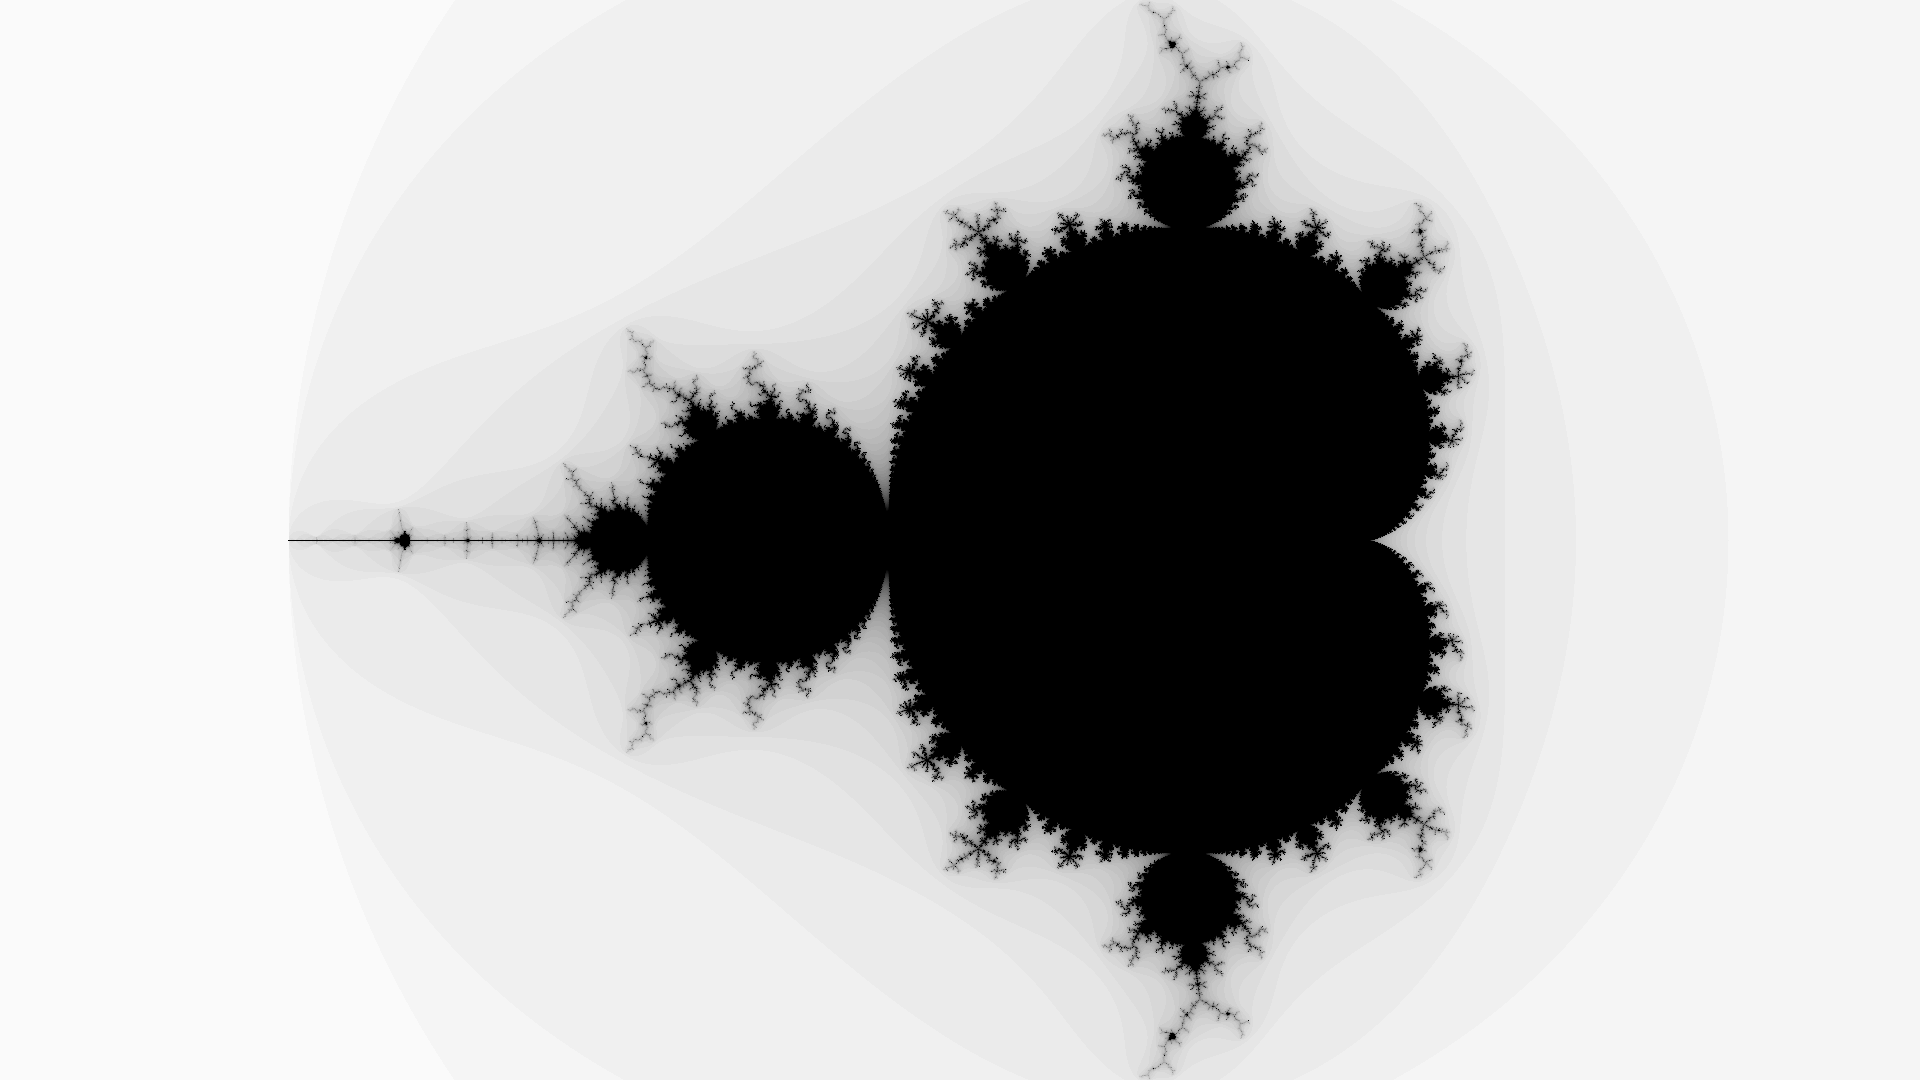
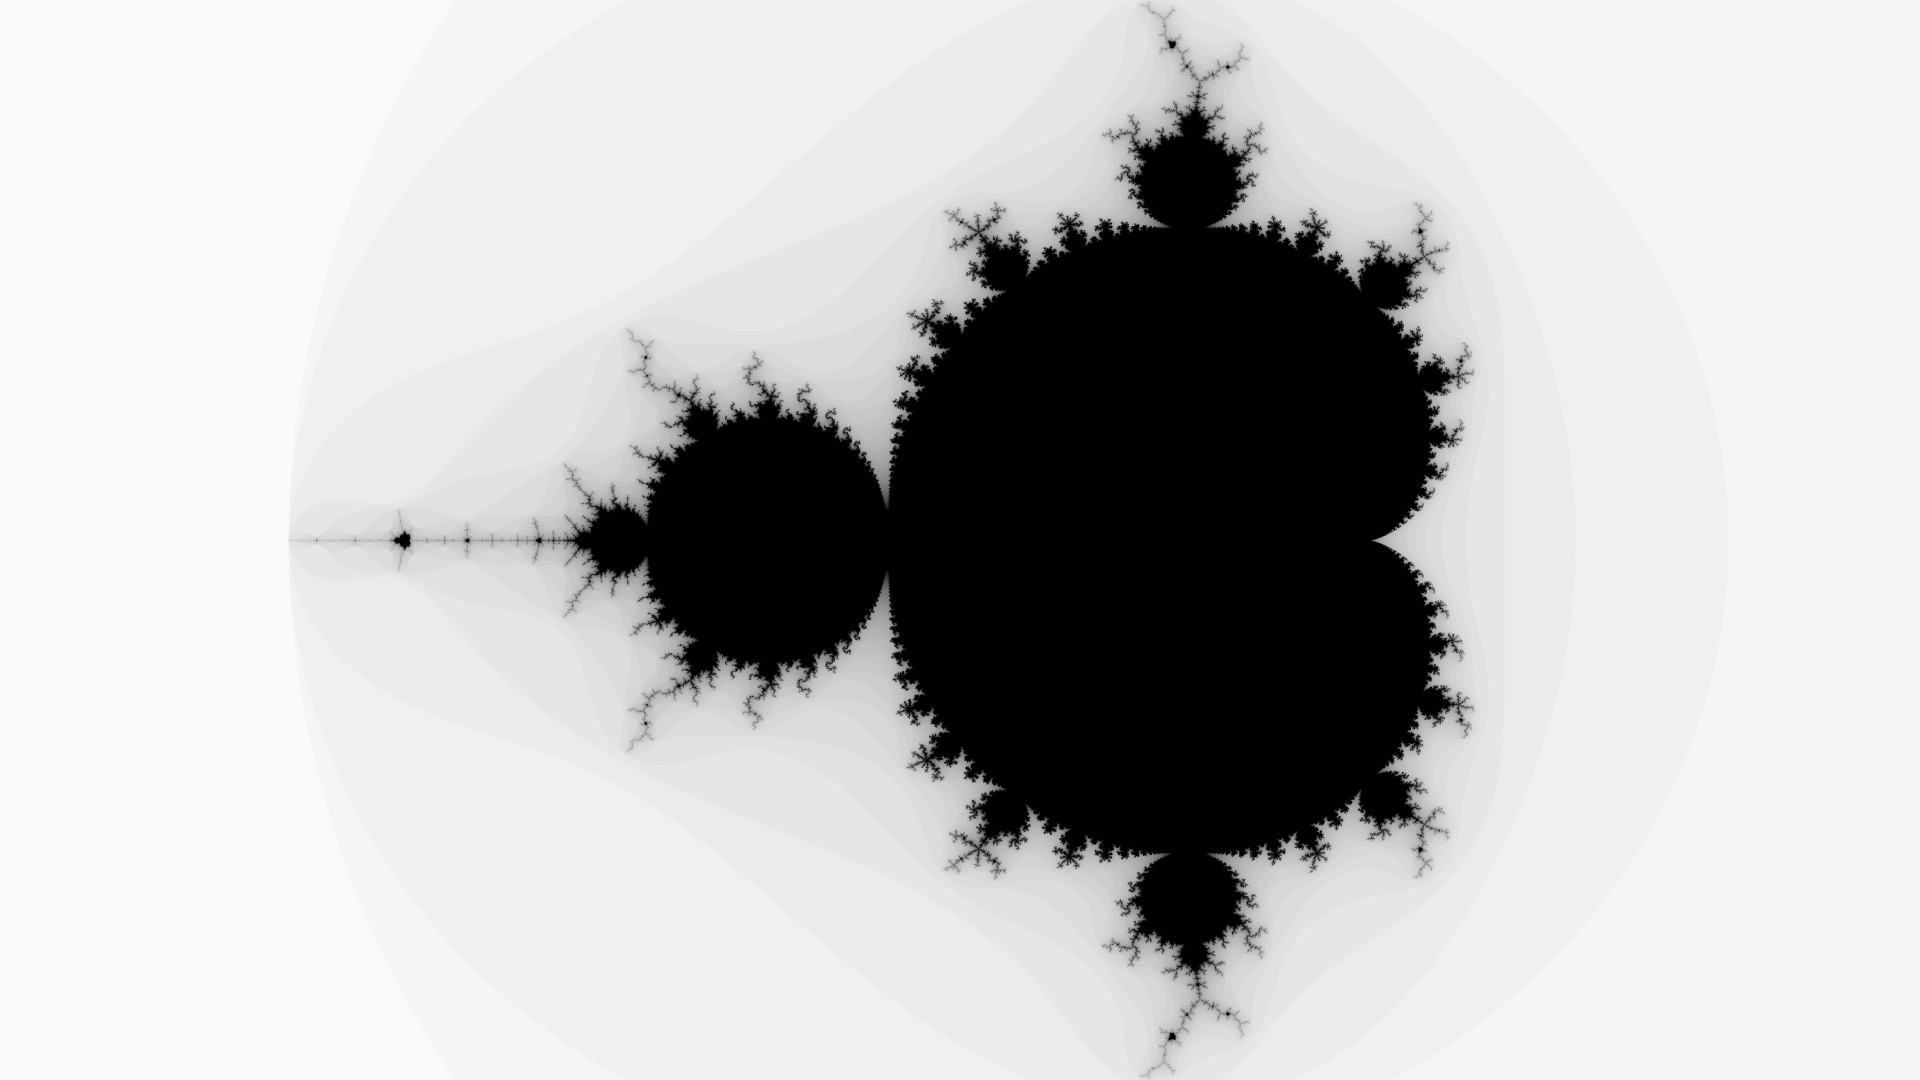
Implemented subpixel sampling

diff --git a/demos/mandelbrot/src/maths.cpp b/demos/mandelbrot/src/maths.cpp
@@ -1,5 +1,7 @@
 #include <algorithm>
+#include <numeric>
 #include <execution>
+#include <utility>
 
 #include "maths.h"
 
@@ -30,6 +32,43 @@ inline unsigned mandelbrot_escape_time(std::complex<double> const& c, unsigned m
     return max_iter;
 }
 
+auto subsampling(settings const& config) {
+
+    if (!config.subsampling) {
+        std::vector abscissae{std::complex<double>{0,0}};
+        std::vector weights{1.0};
+        return std::pair(abscissae, weights);
+    }
+
+
+    /* Computing subsampling
+     *   +-------------+    
+     *   |  x       x  |    -  Subsampling point
+     *   |             |    |    + sqrt(3)/3 * height/2     (Gauss integration point)
+     *   |      +      |    -  Centerline
+     *   |             |    |    - sqrt(3)/6 * height/2     (Gauss integration point)
+     *   |  x       x  |    -  Subsampling point
+     *   +-------------+
+     */
+    std::complex<double> pixel_span {config.span.real() / static_cast<double>(config.img_width),
+                                     config.span.imag() / static_cast<double>(config.img_height) };
+    
+    constexpr double gauss_point = 0.57735026919 / 2;
+    std::complex<double> subsampling_offset = pixel_span * gauss_point;
+    std::complex<double> i = {0, 1};
+    
+    std::vector abscissae{
+        subsampling_offset,
+        subsampling_offset * i,
+        subsampling_offset * i*i,
+        subsampling_offset * i*i*i,
+    };
+    std::vector weights {.25, .25, .25, .25};
+
+    return std::pair(abscissae, weights);
+}
+
+
 void update_image(settings const& config, distributed_canvas& canvas) {
     // This wouldn't be necessary if std::ranges::iota_view::iterator was a forward iterator :(
     auto rows = std::vector<std::size_t>(canvas.rows().begin(), canvas.rows().end());
@@ -38,20 +77,28 @@ void update_image(settings const& config, distributed_canvas& canvas) {
     std::complex<double> top_left;
     top_left.real(config.center.real() - config.span.real() / 2.0);
     top_left.imag(config.center.imag() + config.span.imag() / 2.0);
+
+    const auto [abcissae, weights] = subsampling(config);
     
     std::for_each(std::execution::par_unseq, rows.begin(), rows.end(), 
-      [&cols, &top_left, &config, &canvas](std::size_t row) {
+      [&](std::size_t row) {
 
         const double progress = static_cast<double>(row) / static_cast<double>(canvas.global_height());
         const double imag = top_left.imag() - progress * config.span.imag();
 
         std::for_each(std::execution::unseq, cols.begin(), cols.end(),
-          [imag, &top_left, &config, &canvas, row] (std::size_t col) {
+          [&] (std::size_t col) {
             const double progress = static_cast<double>(col) / static_cast<double>(canvas.global_width());
             const double real = top_left.real() + progress * config.span.real();
             
             std::complex<double> c {real, imag};
-            canvas.get(row, col) = mandelbrot_escape_time(c, config.max_iter);
+            const double value =
+            std::transform_reduce(std::execution::unseq, abcissae.begin(), abcissae.end(), weights.begin(), double{0},
+                std::plus<double>{},
+                [&](std::complex<double> const& sample, double weight) -> double {
+                    return weight * mandelbrot_escape_time(c + sample, config.max_iter);
+                });
+            canvas.get(row, col) = static_cast<unsigned>(value);
         });
     });
 }

diff --git a/demos/mandelbrot/src/fileIO.cpp b/demos/mandelbrot/src/fileIO.cpp
@@ -217,12 +217,13 @@ const std::map<std::string_view, void(*)(settings&, std::string_view)> ini_reade
     {"center_real", [](settings& s, std::string_view v) { s.center.real(parse_value<double>(v)); }},
     {"center_imag", [](settings& s, std::string_view v) { s.center.imag(parse_value<double>(v)); }},
     {"span",        [](settings& s, std::string_view v) { s.span.real(parse_value<double>(v)); }},
-    {"img_width",   [](settings& s, std::string_view v) { s.img_width  = parse_value<std::size_t>(v); }},
-    {"img_height",  [](settings& s, std::string_view v) { s.img_height = parse_value<std::size_t>(v); }},
-    {"debug",       [](settings& s, std::string_view v) { s.debug      = parse_value<bool>(v); }},
-    {"output",      [](settings& s, std::string_view v) { s.output     = parse_value<std::string>(v); }},
-    {"encoding",    [](settings& s, std::string_view v) { s.encode     = parse_value<encoding>(v); }},
-    {"colormap",    [](settings& s, std::string_view v) { s.colormap   = parse_value<std::string>(v); }},
-    {"max_iter",    [](settings& s, std::string_view v) { s.max_iter   = parse_value<unsigned>(v); }},
-    {"min_iter",    [](settings& s, std::string_view v) { s.min_iter   = parse_value<unsigned>(v); }},
+    {"img_width",   [](settings& s, std::string_view v) { s.img_width   = parse_value<std::size_t>(v); }},
+    {"img_height",  [](settings& s, std::string_view v) { s.img_height  = parse_value<std::size_t>(v); }},
+    {"debug",       [](settings& s, std::string_view v) { s.debug       = parse_value<bool>(v); }},
+    {"output",      [](settings& s, std::string_view v) { s.output      = parse_value<std::string>(v); }},
+    {"encoding",    [](settings& s, std::string_view v) { s.encode      = parse_value<encoding>(v); }},
+    {"colormap",    [](settings& s, std::string_view v) { s.colormap    = parse_value<std::string>(v); }},
+    {"max_iter",    [](settings& s, std::string_view v) { s.max_iter    = parse_value<unsigned>(v); }},
+    {"min_iter",    [](settings& s, std::string_view v) { s.min_iter    = parse_value<unsigned>(v); }},
+    {"subsampling", [](settings& s, std::string_view v) { s.subsampling = parse_value<bool>(v); }},
 };

diff --git a/demos/mandelbrot/src/settings.h b/demos/mandelbrot/src/settings.h
@@ -18,6 +18,7 @@ struct settings {
     std::string colormap            = "grayscale";
     unsigned max_iter               = 50;
     unsigned min_iter               = 0;
+    bool subsampling                = true;
 
     // Changes span imaginary component to match the image aspect ratio
     void adjust_span() {
@@ -60,5 +61,6 @@ inline std::ostream& operator<<(std::ostream& os, settings const& s) {
         << "colormap:    " << s.colormap   << "\n"
         << "max_iter:    " << s.max_iter   << "\n"
         << "min_iter:    " << s.min_iter   << "\n"
+        << "subsampling: " << s.subsampling << "\n"
     ;
 }

diff --git a/demos/mandelbrot/README.md b/demos/mandelbrot/README.md
@@ -74,4 +74,7 @@ max_iter:    30         # positive integer, greater than min_iter
 
 ; Smallest number of iterations represented by colormap
 min_iter:    30         # positive integer, less than max_iter
+
+; Allow computation of multiple points per pixel, then averaging them
+subsampling: true       # [true|false]
 ```
